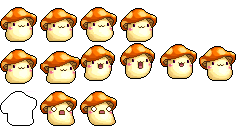
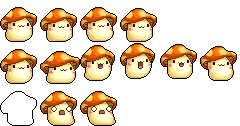
Enemigo OMmi

Changed region(s): [[0.8167, 0.3571, 0.9917, 0.6429], [0.875, 0.619, 0.9042, 0.6429]]

diff --git a/src/Elementos/Enemigos/EnemigoOmmi.java b/src/Elementos/Enemigos/EnemigoOmmi.java
@@ -8,23 +8,23 @@ import Juegos.Juego;
 import Utilz.LoadSave;
 import Utilz.Animaciones;
 
-public class EnemigoKoko extends Enemigo {
+public class EnemigoOmmi extends Enemigo {
     // Constantes específicas de este tipo de enemigo
-    private static final int ANCHO_DEFAULT = 64;
-    private static final int ALTO_DEFAULT = 48;
-    private static final int VIDA_DEFAULT = 50;
+    private static final int ANCHO_DEFAULT = 128;
+    private static final int ALTO_DEFAULT = 96;
+    private static final int VIDA_DEFAULT = 400;
     
     // Ajuste específico para este enemigo
     private int ajuste = 16;
     
-    public EnemigoKoko(float x, float y) {
+    public EnemigoOmmi(float x, float y) {
         super(x, y, 
             (int)(ANCHO_DEFAULT * Juego.SCALE), 
             (int)(ALTO_DEFAULT * Juego.SCALE), 
             VIDA_DEFAULT);
         
         // Configurar propiedades específicas
-        inicializarEnemigo(0, 12, 52, 36, true, true);
+        inicializarEnemigo(0, 0, 112, 96, true, true);
         this.velocidadMovimiento = 0.5f * Juego.SCALE;
         this.velocidadX = -velocidadMovimiento; // Iniciar moviéndose a la izquierda
         
@@ -59,22 +59,22 @@ public class EnemigoKoko extends Enemigo {
     @Override
     protected void cargarAnimaciones() {
         // Cargar la hoja de sprites del enemigo verde
-        BufferedImage img = LoadSave.GetSpriteAtlas("enemigos/Koko 24x24.png");
+        BufferedImage img = LoadSave.GetSpriteAtlas("enemigos/Ommi 40x42.png");
         
         // Basado en la imagen, tiene 3 filas (acciones) con varios frames cada una
         // Fila 1 (índice 0): 6 frames - Inactivo/Idle
         // Fila 2 (índice 1): 6 frames - Correr/Moverse
         // Fila 3 (índice 2): 2 frames - Daño/Herido
-        spritesEnemigo = new BufferedImage[3][8]; // 3 acciones, máximo 6 frames
+        spritesEnemigo = new BufferedImage[3][6]; // 3 acciones, máximo 6 frames
         
         // Ancho y alto de cada frame del sprite 
-        int frameWidth = 24;
-        int frameHeight = 24;
+        int frameWidth = 40;
+        int frameHeight = 42;
         int framesEnFila = 0;
         // Extraer cada frame de la hoja de sprites
         for (int j = 0; j < spritesEnemigo.length; j++) {
             switch (j) {
-                case 0 -> framesEnFila = 8; // Inactivo/Idle
+                case 0 -> framesEnFila = 4; // Inactivo/Idle
                 case 1 -> framesEnFila = 6; // Correr/Moverse
                 case 2 -> framesEnFila = 3; // Daño/Herido
             }
@@ -87,7 +87,7 @@ public class EnemigoKoko extends Enemigo {
         animaciones = new Animaciones(spritesEnemigo);
         
         // Configurar el número correcto de frames para cada animación
-        animaciones.setNumFramesPorAnimacion(INACTIVO, 8); // 6 frames para inactivo/idle
+        animaciones.setNumFramesPorAnimacion(INACTIVO, 4); // 6 frames para inactivo/idle
         animaciones.setNumFramesPorAnimacion(CORRER, 6);   // 6 frames para correr/moverse
         animaciones.setNumFramesPorAnimacion(HERIDO, 3);   // 2 frames para herido
         

diff --git a/src/Elementos/Administradores/AdministradorEnemigos.java b/src/Elementos/Administradores/AdministradorEnemigos.java
@@ -6,6 +6,7 @@ import java.util.ArrayList;
 import Elementos.Bala;
 import Elementos.Enemigo;
 import Elementos.Enemigos.EnemigoKoko;
+import Elementos.Enemigos.EnemigoOmmi;
 import Elementos.Enemigos.EnemigoThor;
 import Elementos.Enemigos.EnemigoVerde;
 import Elementos.Enemigos.EnemigoYbirth;
@@ -102,6 +103,12 @@ public class AdministradorEnemigos {
 
     public EnemigoKoko crearEnemigoKoko(float x, float y) {
         EnemigoKoko nuevoEnemigo = new EnemigoKoko(x, y);
+        agregarEnemigo(nuevoEnemigo);
+        return nuevoEnemigo;
+    }
+
+    public EnemigoOmmi crearEnemigoOmmi(float x, float y) {
+        EnemigoOmmi nuevoEnemigo = new EnemigoOmmi(x, y);
         agregarEnemigo(nuevoEnemigo);
         return nuevoEnemigo;
     }

diff --git a/src/Niveles/LevelManager.java b/src/Niveles/LevelManager.java
@@ -119,6 +119,9 @@ public class LevelManager {
                     case 5:
                     game.getAdminEnemigos().crearEnemigoKoko(x, y);
                         break;
+                    case 6:
+                    game.getAdminEnemigos().crearEnemigoOmmi(x, y);
+                        break;
                     default:
                         break;
                 }
